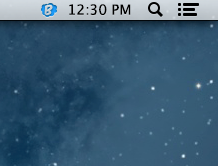
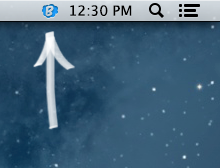
update welcome screen image in OS X app

diff --git a/osx/Distribution/Site/d/index.html b/osx/Distribution/Site/d/index.html
@@ -26,76 +26,78 @@
     <![endif]-->
   </head>
   <body class="download">
-    <div class="container">
-	    <div class="row bottom-hr">
-	    	<div class="col-md-3">
-	    		<img class="top15" src="/img/d/logo.png" />
-	    	</div>
-	    	<div class="col-md-8">
-	    		<div class="row">
-	    			<h1>ShotBuf download</h1>
-	    			<p class="bigger">Press button to start downloading desktop client for your Mac or PC</p>
-	    		</div>
-	    		<div class="row top15">
-	    			<div class="col-md-6 no-left-offset"><a href="/app/ShotBuf 1.0.dmg" class="download mac selected">Download for Mac</a></div>
-	    			<div class="col-md-6"><a href="javascript:alert('PC version is coming soon!');" class="download pc">Download for PC</a></div>
-	    		</div>
-	    	</div>
-	    </div>
-	    <div class="row bottom-hr-gray top15 screenshots">
-	    	<div class="col-md-3">
-	    		<img class="screenshot" src="/img/d/screenshot-download.png" />
-	    		<h4>1. Download ShotBuf</h4>
-	    		<p>Click "Download for Mac" button if download wasn't started automatically.</p>
-	    	</div>
-	    	<div class="col-md-3">
-	    		<img class="screenshot" src="/img/d/screenshot-drag.png" />
-	    		<h4>2. Drag ShotBuf icon into Applications</h4>
-	    		<p>Open downloaded .dmg, then drag ShotBuf icon in window appeared to Applications shortcut icon.</p>
-	    	</div>
-	    	<div class="col-md-3">
-	    		<img class="screenshot" src="/img/d/screenshot-taskbar.png" />
-	    		<h4>3. Run ShotBuf</h4>
-	    		<p>Use SpotLight or Application launcher to run ShotBuf application.</p>
-	    	</div>
-	    	<div class="col-md-3">
-	    		<img class="screenshot" src="/img/d/screenshot-welcome.png" />
-	    		<h4>4. You're good to go!</h4>
-	    		<p>Connect to your Dropbox account and copy-paste as usual.</p>
-	    	</div>
-	    </div>
+	  <div class="pagewrap">
+	    <div class="container">
+		    <div class="row bottom-hr">
+		    	<div class="col-md-3">
+		    		<img class="top15" src="/img/d/logo.png" />
+		    	</div>
+		    	<div class="col-md-8">
+		    		<div class="row">
+		    			<h1>ShotBuf download</h1>
+		    			<p class="bigger">Press button to start downloading desktop client for your Mac or PC</p>
+		    		</div>
+		    		<div class="row top15">
+		    			<div class="col-md-6 no-left-offset"><a href="/app/ShotBuf 1.0.dmg" class="download mac selected">Download for Mac</a></div>
+		    			<div class="col-md-6"><a href="javascript:alert('PC version is coming soon!');" class="download pc">Download for PC</a></div>
+		    		</div>
+		    	</div>
+		    </div>
+		    <div class="row bottom-hr-gray top15 screenshots">
+		    	<div class="col-md-3">
+		    		<img class="screenshot" src="/img/d/screenshot-download.png" />
+		    		<h4>1. Download ShotBuf</h4>
+		    		<p>Click "Download for Mac" button if download wasn't started automatically.</p>
+		    	</div>
+		    	<div class="col-md-3">
+		    		<img class="screenshot" src="/img/d/screenshot-drag.png" />
+		    		<h4>2. Drag ShotBuf icon into Applications</h4>
+		    		<p>Open downloaded .dmg, then drag ShotBuf icon in window appeared to Applications shortcut icon.</p>
+		    	</div>
+		    	<div class="col-md-3">
+		    		<img class="screenshot" src="/img/d/screenshot-taskbar.png" />
+		    		<h4>3. Run ShotBuf</h4>
+		    		<p>Use SpotLight or Application launcher to run ShotBuf application.</p>
+		    	</div>
+		    	<div class="col-md-3">
+		    		<img class="screenshot" src="/img/d/screenshot-welcome.png" />
+		    		<h4>4. You're good to go!</h4>
+		    		<p>Connect to your Dropbox account and copy-paste as usual.</p>
+		    	</div>
+		    </div>
 
-	    <div class="row footer">
-	    	<div class="col-md-4">
-	    		<ul class="menu">
-	    			<li><a href="#">About</a></li>
-	    			<li><a href="#">Press releases</a></li>
-	    		</ul>
-	    	</div>
-	    	<div class="col-md-2">
-	    		<ul class="menu">
-	    			<li><a href="#">Support</a></li>
-	    			<li><a href="#">EULA</a></li>
-	    			<li><a href="#">Terms Of Service</a></li>
-	    		</ul>
-	    	</div>
-	    	<div class="col-md-2">
-	    		<ul class="menu">
-	    			<li><a href="#">iOS</a></li>
-	    			<li><a href="#">Android</a></li>
-	    			<li><a href="">Desktop</a></li>
-	    		</ul>
-	    	</div>
-	    	<div class="col-md-2">
-	    		<a href="http://dropbox.com"><img src="/img/d/dropbox-powered.png" /></a>
-	    	</div>
-	    	<div class="col-md-2">
-	    		<a class="copyright" href="/">&copy; ShotBuf 2014</a>
-	    	</div>
+		    <div class="row footer">
+		    	<div class="col-md-4">
+		    		<ul class="menu">
+		    			<li><a href="#">About</a></li>
+		    			<li><a href="#">Press releases</a></li>
+		    		</ul>
+		    	</div>
+		    	<div class="col-md-2">
+		    		<ul class="menu">
+		    			<li><a href="#">Support</a></li>
+		    			<li><a href="#">EULA</a></li>
+		    			<li><a href="#">Terms Of Service</a></li>
+		    		</ul>
+		    	</div>
+		    	<div class="col-md-2">
+		    		<ul class="menu">
+		    			<li><a href="#">iOS</a></li>
+		    			<li><a href="#">Android</a></li>
+		    			<li><a href="">Desktop</a></li>
+		    		</ul>
+		    	</div>
+		    	<div class="col-md-2">
+		    		<a href="http://dropbox.com"><img src="/img/d/dropbox-powered.png" /></a>
+		    	</div>
+		    	<div class="col-md-2">
+		    		<a class="copyright" href="/">&copy; ShotBuf 2014</a>
+		    	</div>
+		    </div>
 	    </div>
-    </div>
-
+		</div>
     <div class="after">
+    	Questions? Write to <a href="mailto:hey@shotbuf.com?subject=Inquiry from site">hey@shotbuf.com</a>
     </div>
 
 

diff --git a/osx/Distribution/Site/css/main.css b/osx/Distribution/Site/css/main.css
@@ -22,6 +22,8 @@ h1 {
 	background: url('/img/d/button-windows.png') no-repeat 20px 20px;
 }
 
+
+
 .download a.download {
 	background-color: #cccdcd;
 	color: #fff;
@@ -45,6 +47,16 @@ h1 {
 	padding-left:0;
 }
 
+html, body {
+    height: 100%;
+}
+
+.download .pagewrap {
+	min-height: 100%;
+	height: auto !important;
+  height: 100%;
+  margin: 0 auto -73px; /* the bottom margin is the negative value of the footer's height */}
+}
 
 @media (min-width: 768px) {
 	.no-left-offset {
@@ -88,13 +100,17 @@ h1 {
 
 .footer  {
 	margin-top: 15pt;
-	margin-bottom: 50pt;
-	
+	margin-bottom: 70pt;
 }
 
 .after {
 	height: 73px;
+	margin-top:-73px;
 	background: url('/img/footer-pattern.png');
+	text-align: center;
+	font-size: 1.2em;
+	font-weight: bolder;
+	padding-top: 10pt;
 }
 
 .footer a {
